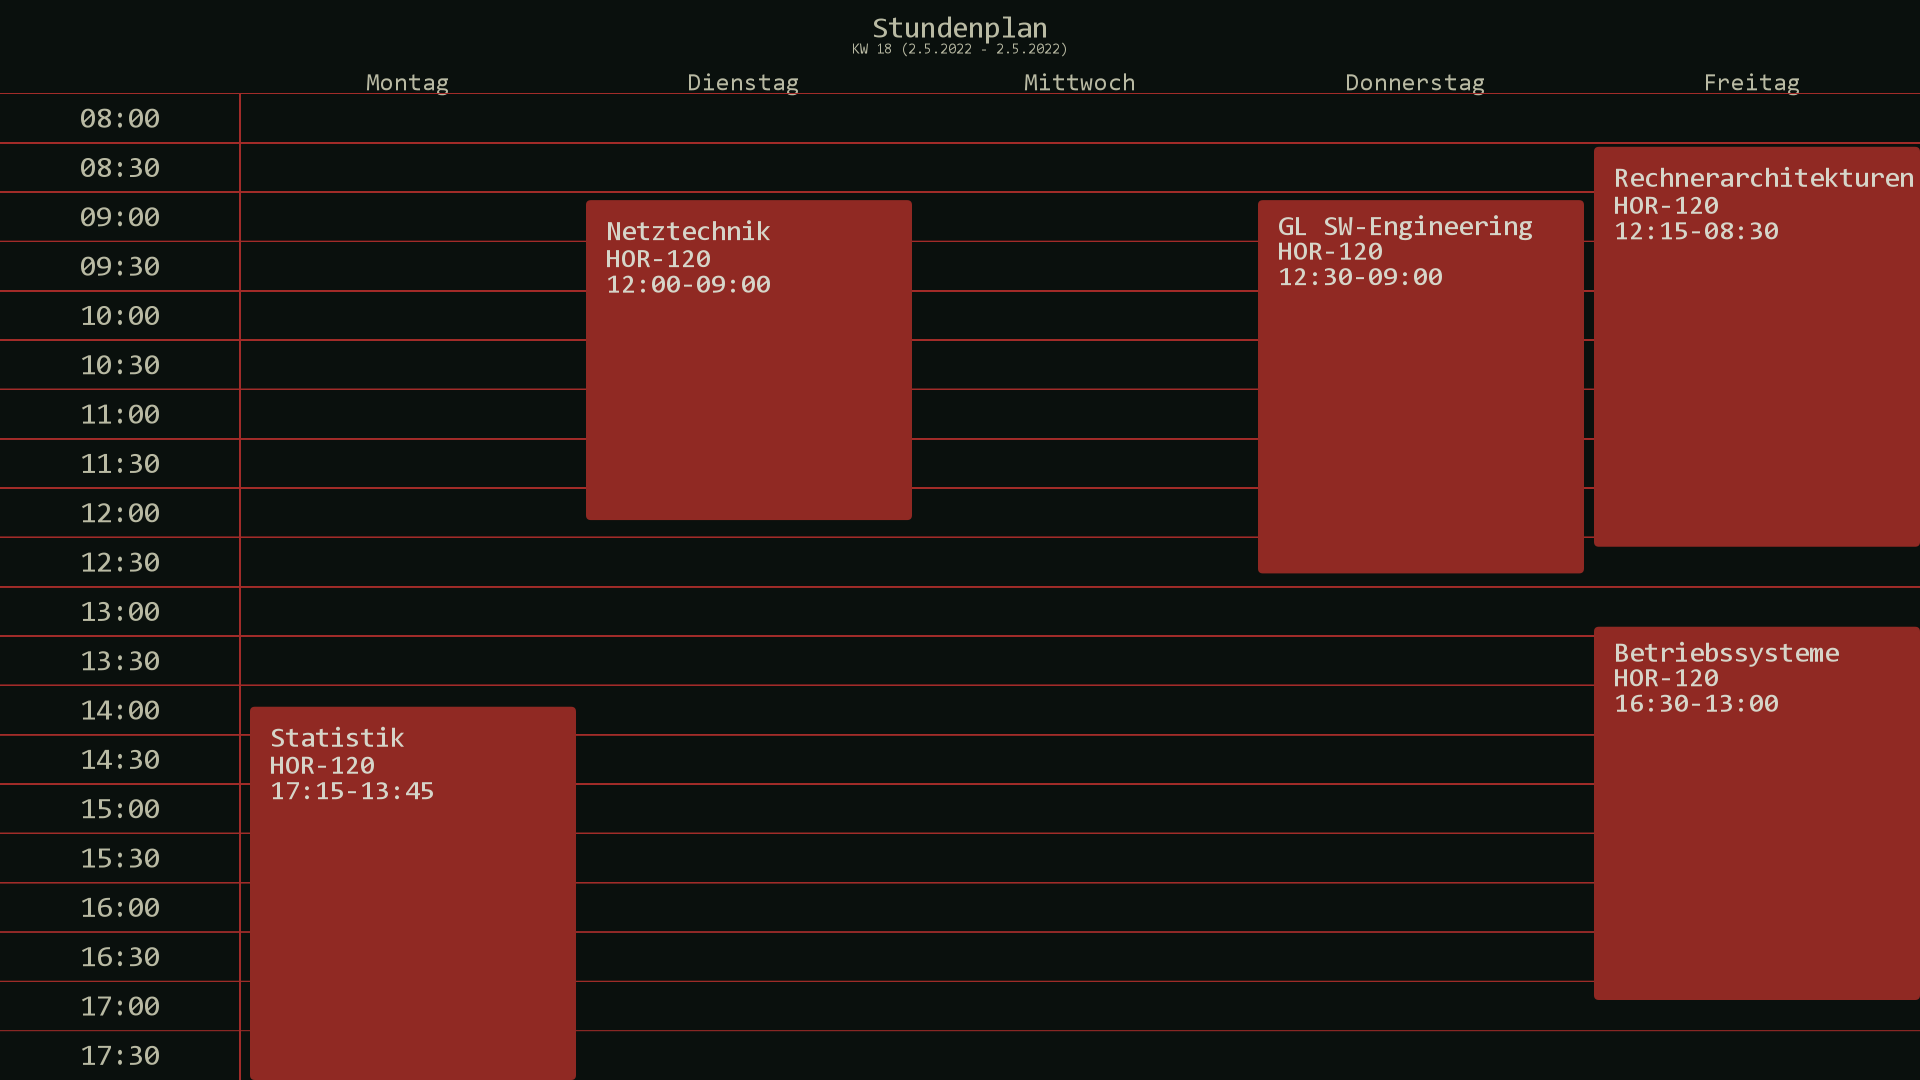
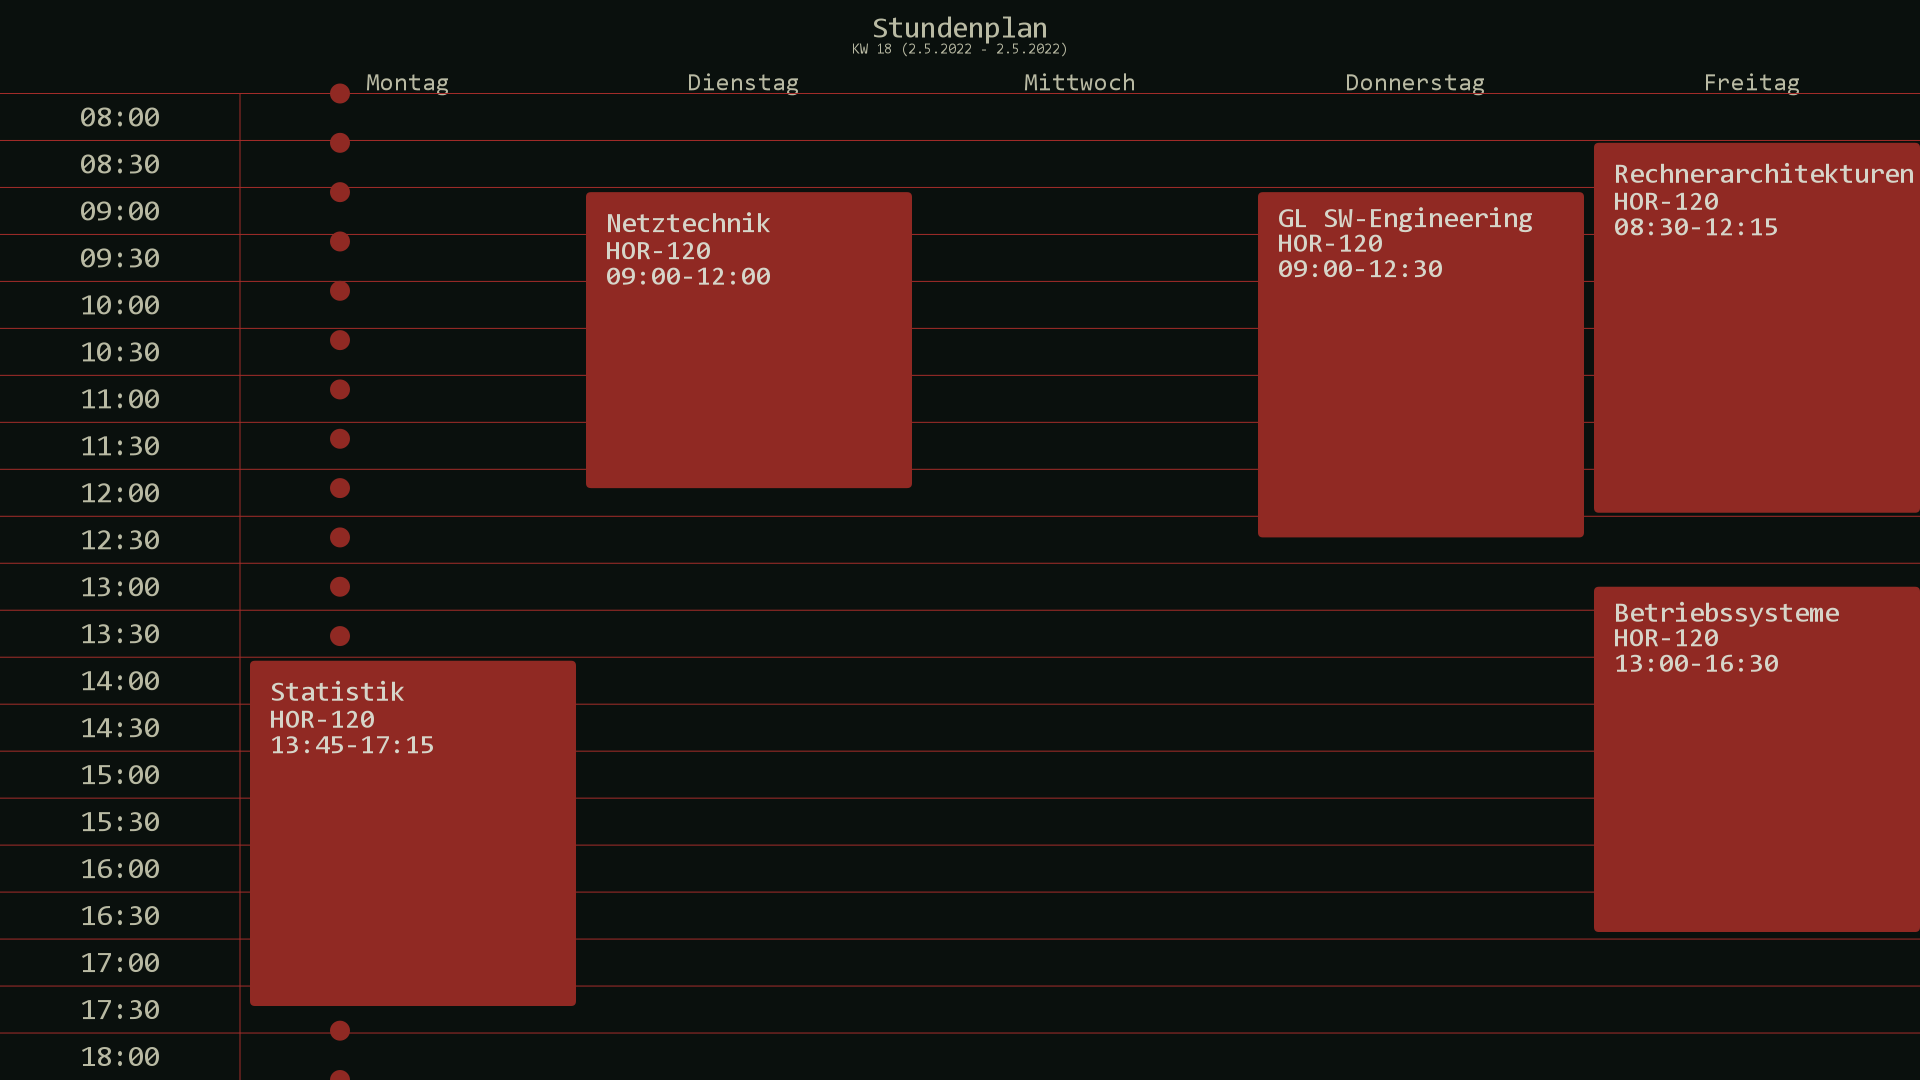
finished schedule

diff --git a/src/misc/stundenplanCanvas.ts b/src/misc/stundenplanCanvas.ts
@@ -51,6 +51,10 @@ export class StundenplanCanvas {
         this.drawSchedule();
     }
 
+    getBuffer() {
+        return this.cvs.toBuffer('image/png');
+    }
+
     drawSchedule() {
         let days = ["montag", "dienstag", "mittwoch", "donnerstag", "freitag"] as Array<keyof ScheduleWeek>;
         let {min,max,steps} = this.getTimeRange();
@@ -75,7 +79,6 @@ export class StundenplanCanvas {
             
             }
         }
-        console.log(minN);
         for (let i = 0; i<days.length; i++) {
             let day = days[i];
             if (this.sched[day] === undefined) {
@@ -84,6 +87,9 @@ export class StundenplanCanvas {
             for (let lesson of this.sched[day]!) {
                 let startTime = new Date(`0 ${lesson.from}:00`);
                 let endTime = new Date(`0 ${lesson.to}:00`);
+                startTime.setHours(startTime.getHours() + 1);
+                endTime.setHours(endTime.getHours() + 1);
+                console.log(startTime, min, max);
                 let startY = map(startTime.getTime(), min.getTime(), max.getTime(), 0, this.bodyHeight!);
                 let endY = map(endTime.getTime(), min.getTime(), max.getTime(), 0, this.bodyHeight!);
                 let startX = this.tileMargin + (this.tileWidth * (i));
@@ -114,7 +120,7 @@ export class StundenplanCanvas {
                 textWidth = textDimensions.width;
                 x = startX + this.tilePadding;
                 y = startY + this.tilePadding + textHeight + oldTextHeight * 1.5 + textHeight * 1.5;
-                this.context.fillText(`${lesson.to}-${lesson.from}`, x, y);
+                this.context.fillText(`${lesson.from}-${lesson.to}`, x, y);
                 
 
             }
@@ -131,21 +137,26 @@ export class StundenplanCanvas {
 
         this.bodyHeight = this.height - (this.headerOffset || 0);
         const timelineCellHeight = this.bodyHeight / steps;
+        this.context.strokeStyle = this.linecolor;
+        this.context.beginPath();
         this.context.moveTo(this.timelineWidth, 0);
         this.context.lineTo(this.timelineWidth, this.height);
-        let startTime = min;
+        this.context.stroke();
+        this.context.closePath();
         for(let i = 0; i < steps; i++){
             // Draw lines
             this.context.strokeStyle = this.linecolor;
+            this.context.beginPath();
             this.context.moveTo(0, i * timelineCellHeight);
             this.context.lineTo(this.width, i * timelineCellHeight);
             this.context.stroke();
+            this.context.closePath();
 
             // Draw time
             this.context.fillStyle = this.foreground;
             this.context.font = '30px Consolas';
 
-            let textDimensions = this.context.measureText(`${shortTime(startTime)}`);
+            let textDimensions = this.context.measureText(`${shortTime(min)}`);
 
             let textHeight = (textDimensions.actualBoundingBoxAscent - textDimensions.actualBoundingBoxDescent);
             let textWidth = textDimensions.width;
@@ -155,7 +166,6 @@ export class StundenplanCanvas {
 
             min = new Date(min.getTime() + (30 * 60 * 1000));
         }
-
         this.context.translate(0, -(this.headerOffset || 0));
 
     }
@@ -167,18 +177,28 @@ export class StundenplanCanvas {
         let days = Object.keys(this.sched) as Array<keyof ScheduleWeek>;
         for (let day of days) {
             for (let lesson of this.sched[day]!) {
-                if ((new Date(`0 ${lesson.from}:00`)).getTime() < min.getTime()) {
-                    min = new Date(`0 ${lesson.from}:00`);
+                let minTemp = new Date(`0 ${lesson.from}:00`);
+                minTemp.setHours(minTemp.getHours() + 1)
+                let maxTemp = new Date(`0 ${lesson.to}:00`);
+                maxTemp.setHours(maxTemp.getHours() + 1)
+                if (minTemp.getTime() < min.getTime()) {
+                    min = minTemp;
                 }
-                if ((new Date(`0 ${lesson.to}:00`)).getTime() > max.getTime()) {
-                    max = new Date(`0 ${lesson.to}:00`);
+                if (maxTemp.getTime() > max.getTime()) {
+                    max = maxTemp;
                 }
             }
         }
+        console.log(min, max);
+
         min.setMinutes(0);
+        if(max.getMinutes() > 0){
+            max.setHours(max.getHours() + 1);
+            max.setMinutes(0);
+        }
         let otherTime = min;
         let steps = 1;
-
+        console.log(min, max);
         do {
             otherTime = new Date(otherTime.getTime() + (60 * 30 * 1000));
             steps++;
@@ -231,11 +251,15 @@ function shortDate(date: Date): string {
 }
 
 function shortTime(date:Date): string{
-    return `${("0"+date.getHours()).slice(-2)}:${("0" + date.getMinutes()).slice(-2)}`;
+    return `${("0"+(date.getHours()-1)).slice(-2)}:${("0" + date.getMinutes()).slice(-2)}`;
 }
 
 export function map(n:number, start1:number, stop1:number, start2:number, stop2:number):number{
-    return (n - start1) / (stop1 - start1) * (stop2 - start2) + start2;
+    return ((n - start1) / (stop1 - start1)) * (stop2 - start2) + start2;
+}
+
+function daySeconds(d:Date){
+    return (d.getSeconds() + (d.getMinutes() * 60) + (d.getHours() * 60 * 60));
 }
 
  function roundRect(

diff --git a/src/listeners/interactionCreate.ts b/src/listeners/interactionCreate.ts
@@ -1,10 +1,15 @@
 import { Commands } from "../Commands";
-import { BaseCommandInteraction, Client, Interaction } from "discord.js";
+import { BaseCommandInteraction, ButtonInteraction, Client, Interaction, MessageActionRow, MessageAttachment, MessageButton } from "discord.js";
+import { dualis } from "../Bot";
+import { randomUUID } from "crypto";
+import { StundenplanCanvas } from "../misc/stundenplanCanvas";
 
 export default (client: Client): void => {
     client.on("interactionCreate", async (interaction: Interaction) => {
         if (interaction.isCommand() || interaction.isContextMenu()) {
             await handleSlashCommand(client, interaction);
+        }else if(interaction.isButton()){
+            await handleButtonClick(client, interaction);
         }
     });
 };
@@ -16,7 +21,97 @@ const handleSlashCommand = async (client: Client, interaction: BaseCommandIntera
         return;
     }
 
-    await interaction.deferReply();
-
     slashCommand.run(client, interaction);
 };
+
+const handleButtonClick = async (client: Client, interaction: ButtonInteraction): Promise<void> => {
+
+    switch(interaction.customId){
+        case "previousWeek":
+            const row = new MessageActionRow().addComponents([
+                new MessageButton().setCustomId('previousWeek').setLabel('<< Vorherige Woche').setStyle('SECONDARY'),
+                new MessageButton().setCustomId('nextWeek').setLabel('Nächste Woche >>').setStyle('SECONDARY')
+            ])
+            interaction.deferReply();
+            dualis.getSchedule((dualis.lastN || 0) - 1).catch(async err => {
+                console.error(err);
+                await interaction.editReply({
+                    content: "Fehler beim Abrufen des Stundenplans",
+                    components: [row],
+
+                });
+            }).then(async schedule => {
+                if (schedule === undefined) {
+                    await interaction.editReply({
+                        content: "Fehler beim Abrufen des Stundenplans",
+                        components: [row]
+                    });
+                    return;
+                } else if (Object.keys(schedule.schedule).length === 0) {
+                    // If the schedule is empty, display a gif instead (no schedule this week)
+                    await interaction.editReply({
+                        content: "https://tenor.com/view/free-dave-chappelle-celebrate-finally-freedom-gif-4581850",
+                        components: [row]
+                    });
+                    return;
+                }
+                let spC = new StundenplanCanvas(schedule.schedule, schedule.meta.kw, schedule.meta.year);
+                spC.renderCanvas();
+                let attachment = new MessageAttachment(spC.getBuffer(), "stundenplan.png");
+                // create uuid
+                attachment.id = randomUUID();
+                await interaction.editReply({
+                    files: [attachment],
+                    components: [row]
+                });
+            }).catch(async err => {
+                console.error(err);
+                await interaction.editReply({
+                    content: "Fehler beim Erstellen des Stundenplans",
+                    components: [row]
+
+                });
+            });
+            break;
+        case "nextWeek":
+            dualis.getSchedule((dualis.lastN || 0) + 1).catch(async err => {
+                console.error(err);
+                await interaction.editReply({
+                    content: "Fehler beim Abrufen des Stundenplans",
+                    components: [row],
+
+                });
+            }).then(async schedule => {
+                if (schedule === undefined) {
+                    await interaction.editReply({
+                        content: "Fehler beim Abrufen des Stundenplans",
+                        components: [row]
+                    });
+                    return;
+                } else if (Object.keys(schedule.schedule).length === 0) {
+                    // If the schedule is empty, display a gif instead (no schedule this week)
+                    await interaction.editReply({
+                        content: "https://tenor.com/view/free-dave-chappelle-celebrate-finally-freedom-gif-4581850",
+                        components: [row]
+                    });
+                    return;
+                }
+                let spC = new StundenplanCanvas(schedule.schedule, schedule.meta.kw, schedule.meta.year);
+                spC.renderCanvas();
+                let attachment = new MessageAttachment(spC.getBuffer(), "stundenplan.png");
+                // create uuid
+                attachment.id = randomUUID();
+                await interaction.editReply({
+                    files: [attachment],
+                    components: [row]
+                });
+            }).catch(async err => {
+                console.error(err);
+                await interaction.editReply({
+                    content: "Fehler beim Erstellen des Stundenplans",
+                    components: [row]
+                });
+            });
+            break;
+    }
+}

diff --git a/src/commands/Stundenplan.ts b/src/commands/Stundenplan.ts
@@ -1,5 +1,8 @@
-import { BaseCommandInteraction, Client } from "discord.js";
+import { dualis } from "../Bot";
+import { BaseCommandInteraction, Client, Message, MessageActionRow, MessageAttachment, MessageButton } from "discord.js";
 import { Command } from "../types/command";
+import { StundenplanCanvas } from '../misc/stundenplanCanvas';
+import { randomUUID } from "crypto";
 
 export const Stundenplan: Command = {
     name: "stundenplan",
@@ -14,11 +17,54 @@ export const Stundenplan: Command = {
         }
     ],
     run: async (client: Client, interaction: BaseCommandInteraction) => {
-        const content = "Noch nicht ganz fertig!";
-        console.log(content);
-        await interaction.followUp({
-            ephemeral: true,
-            content
+        const row = new MessageActionRow().addComponents([
+            new MessageButton().setCustomId('previousWeek').setLabel('<< Vorherige Woche').setStyle('SECONDARY'),
+            new MessageButton().setCustomId('nextWeek').setLabel('Nächste Woche >>').setStyle('SECONDARY')
+        ])
+
+        
+        let weekParameter:number|undefined = (interaction.options.get("woche")?.value as number | undefined);
+        if(weekParameter === undefined) weekParameter = 0;
+
+        // Display the "Bot is thinking..." message
+        await interaction.deferReply();
+        dualis.getSchedule(weekParameter).catch(async err => {
+            console.error(err);
+            await interaction.editReply({
+                content: "Fehler beim Abrufen des Stundenplans",
+                components: [row]
+
+            });
+        }).then(async schedule => {
+            if(schedule === undefined){
+                await interaction.editReply({
+                    content: "Fehler beim Abrufen des Stundenplans",
+                    components: [row]
+                });
+                return;  
+            }else if(Object.keys(schedule.schedule).length === 0){
+                // If the schedule is empty, display a gif instead (no schedule this week)
+                await interaction.editReply({
+                    content: "https://tenor.com/view/free-dave-chappelle-celebrate-finally-freedom-gif-4581850",
+                    components: [row]
+                });
+                return;
+            }
+            let spC = new StundenplanCanvas(schedule.schedule, schedule.meta.kw, schedule.meta.year);
+            spC.renderCanvas();
+            let attachment = new MessageAttachment(spC.getBuffer(), "stundenplan.png");
+            // create uuid
+            attachment.id = randomUUID();
+            await interaction.editReply({
+                files: [attachment],
+                components: [row]
+            });
+        }).catch(async err => {
+            console.error(err);
+            await interaction.editReply({
+                content: "Fehler beim Erstellen des Stundenplans",
+                components: [row]
+            });
         });
     }
 };

diff --git a/src/interfaces/dualis.ts b/src/interfaces/dualis.ts
@@ -9,6 +9,7 @@ interface dualis {
     baseUrl: "https://dualis.dhbw.de/scripts/mgrqispi.dll";
     sessionCookie?: string;
     sessionId?: string;
+    lastN?:number;
 
     isSessionValid: () => Promise<boolean>;
     login: () => Promise<void>;
@@ -22,6 +23,7 @@ export default class Dualis implements dualis{
     sessionCookie?: string | undefined;
     sessionId?: string | undefined;
     baseUrl: "https://dualis.dhbw.de/scripts/mgrqispi.dll" = "https://dualis.dhbw.de/scripts/mgrqispi.dll";
+    lastN?:number;
     constructor(user: string, password: string) {
         this.user = user;
         this.password = password;
@@ -114,11 +116,15 @@ export default class Dualis implements dualis{
             mittwoch: Schedule[];
             donnerstag: Schedule[];
             freitag: Schedule[];
-    }}> = async (n:number = 0) => {
+    }}> = async (n?:number) => {
         if(!this.sessionCookie || !this.sessionId || !(await this.isSessionValid())){
             await this.login();
         }
-
+        n = n || this.lastN;
+        if(!n){
+            this.lastN = n = 0;
+        }
+        this.lastN = n;
         // Get current time
         let [year, week] = getWeekNumber(new Date());
         week+=n;

diff --git a/src/Bot.ts b/src/Bot.ts
@@ -25,7 +25,7 @@ initListeners(client);
 // Logging in
 client.login(config.discord.token);
 
-// let d = new Dualis(config.dualis.user, config.dualis.password);
+export let dualis = new Dualis(config.dualis.user, config.dualis.password);
 
 let spC = new StundenplanCanvas({
     freitag: [
